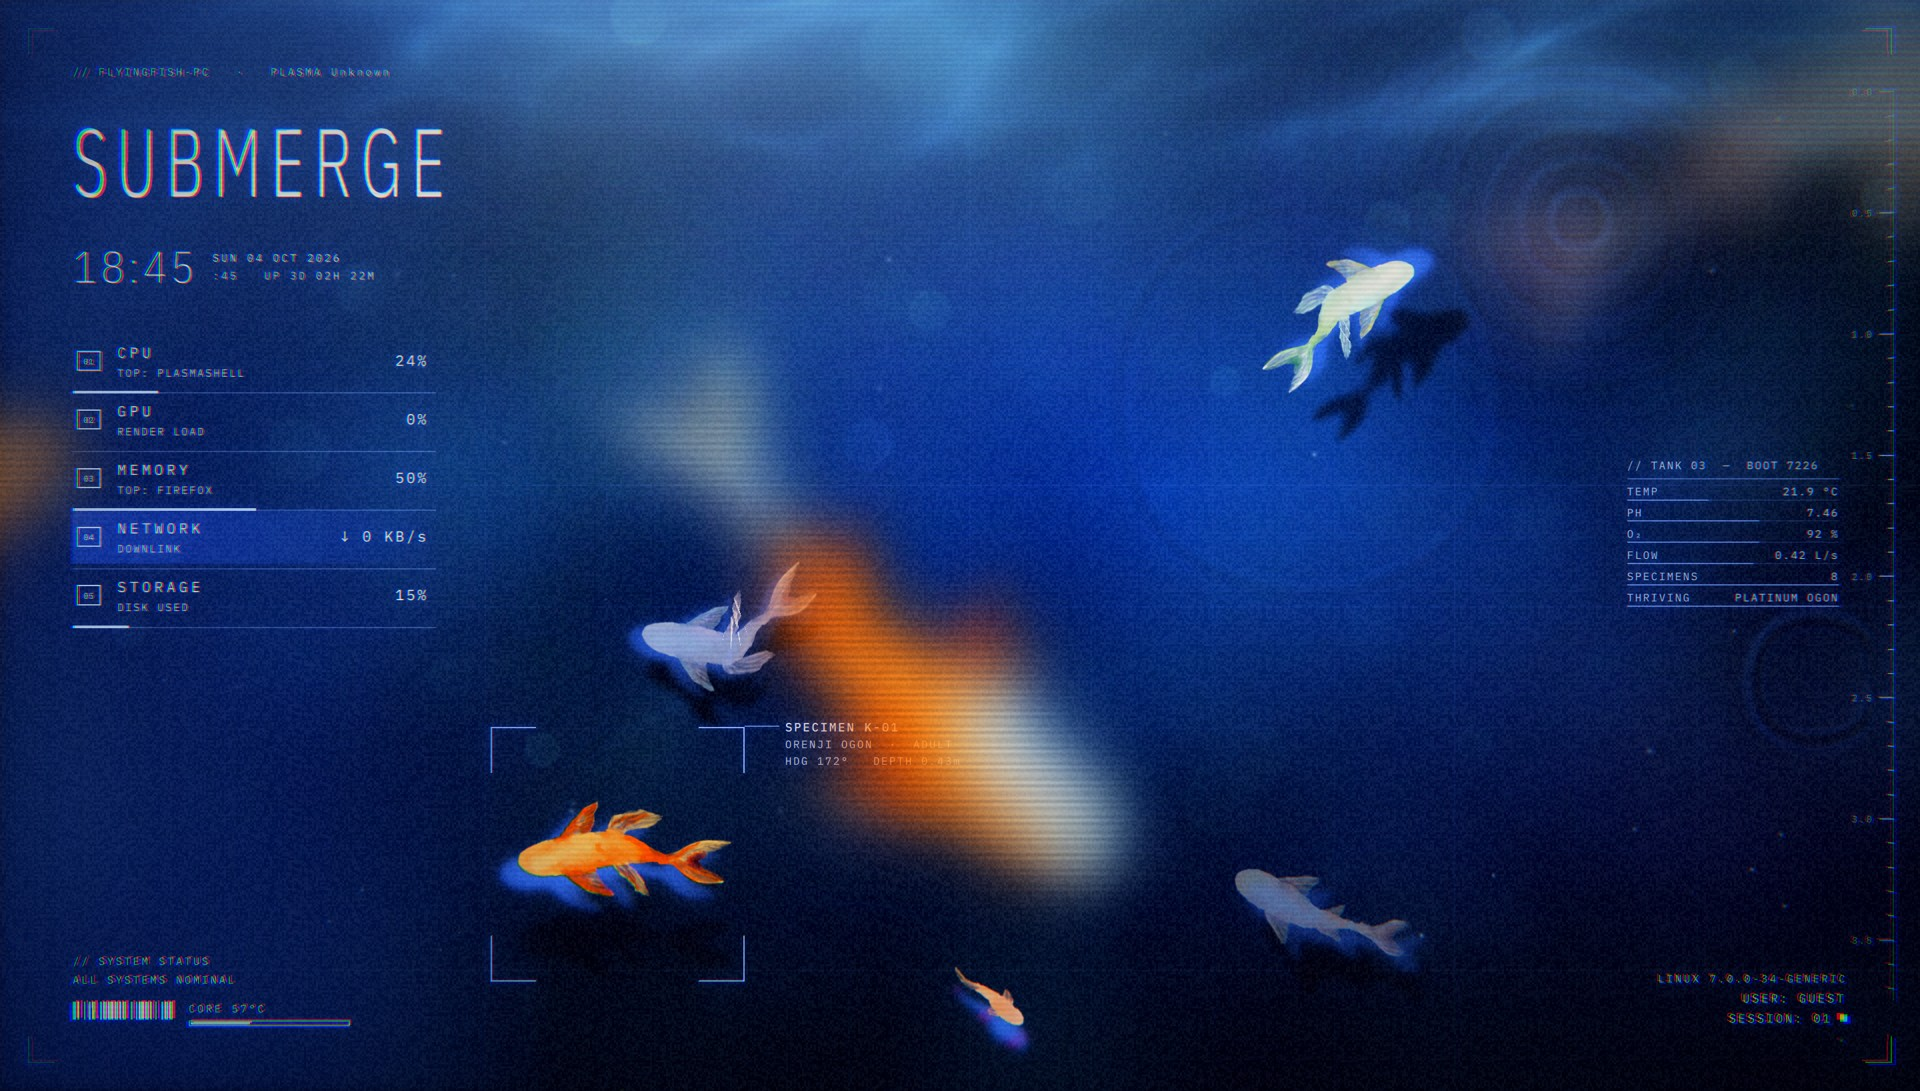
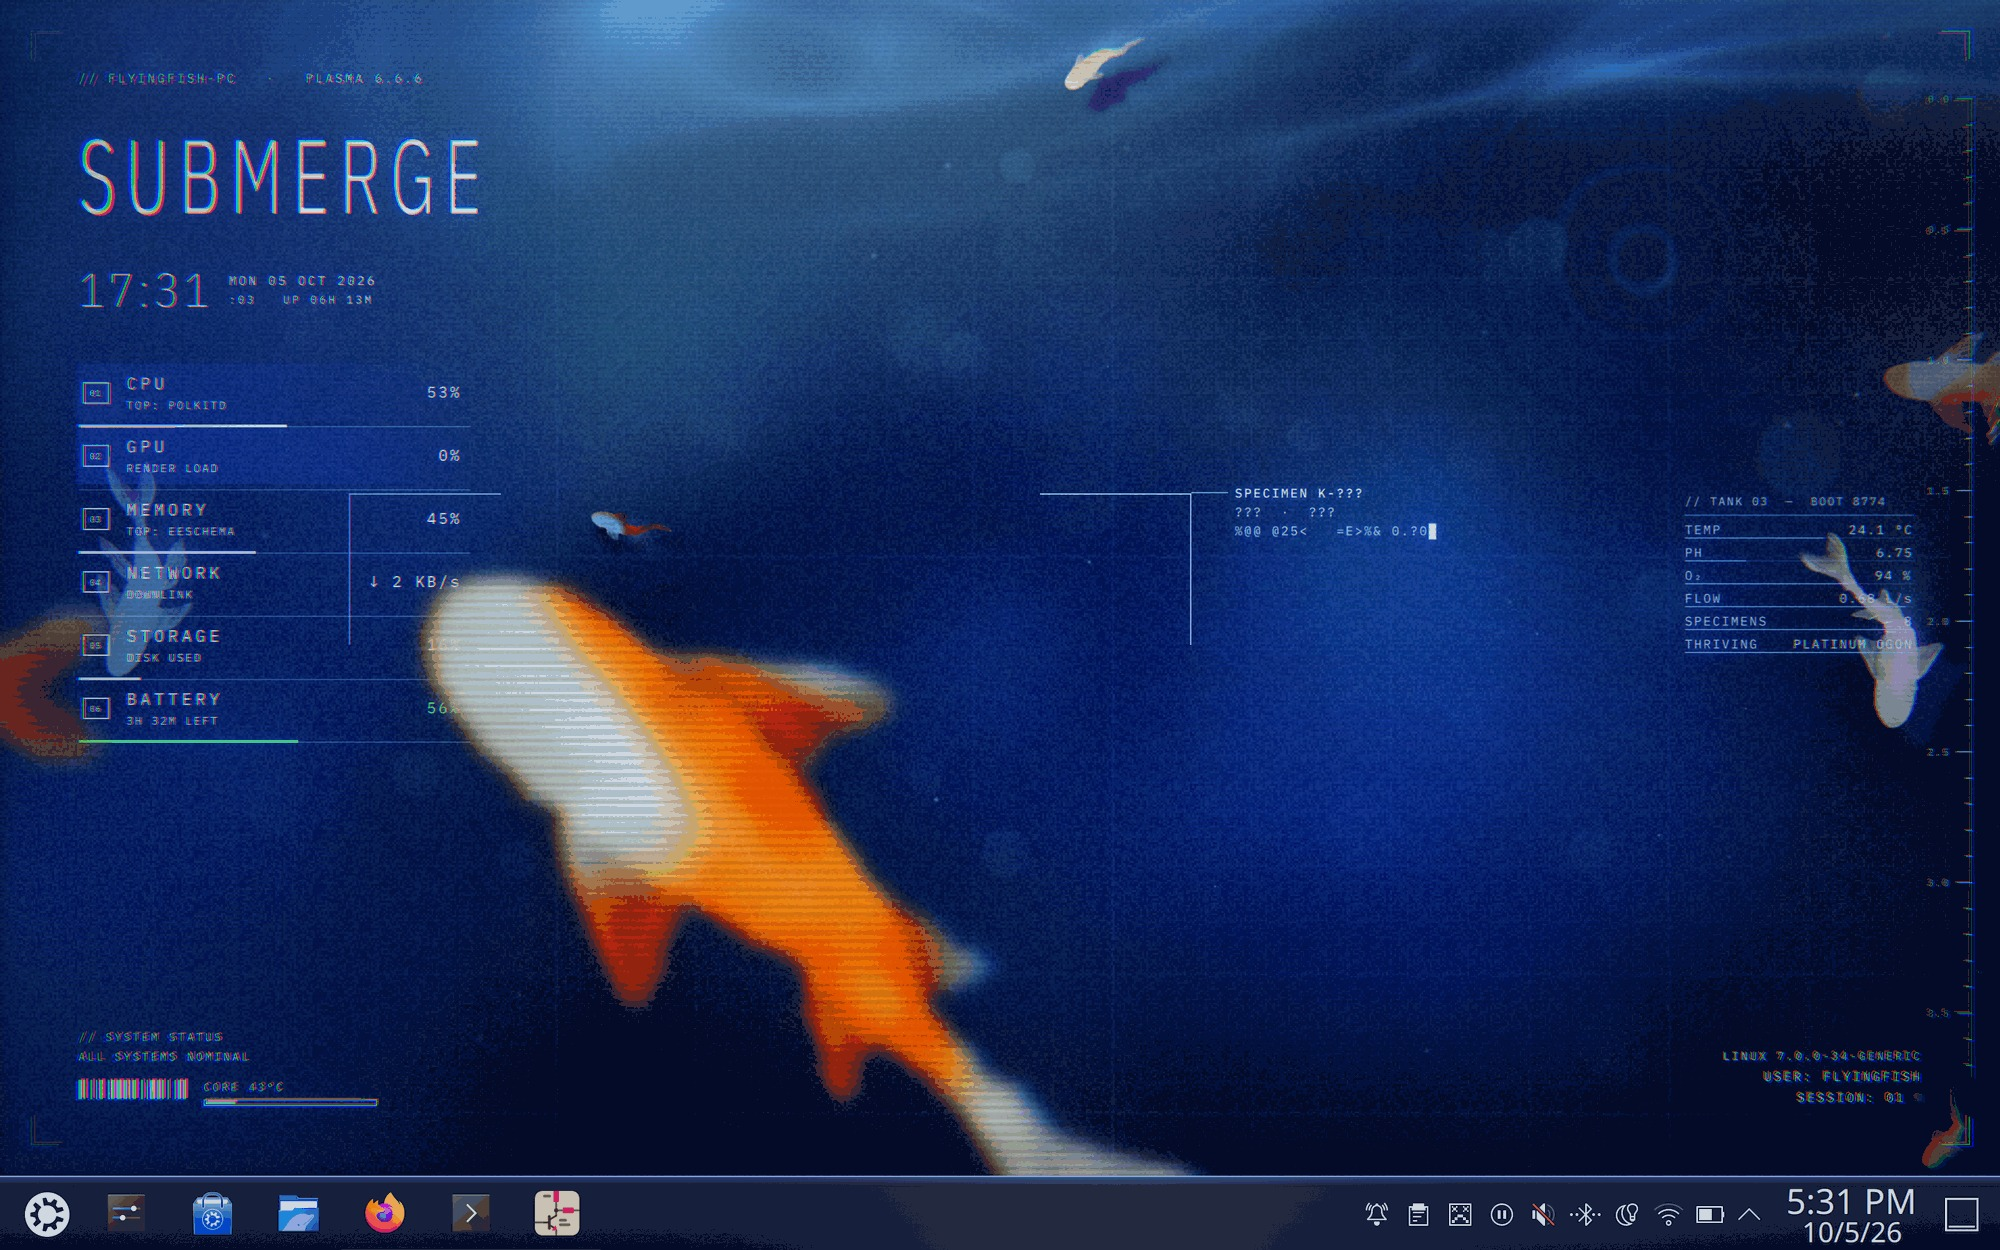
New screenshot and a plainer README intro

diff --git a/README.md b/README.md
@@ -1,31 +1,29 @@
 # Submerge
 
-A deep ocean koi fish theme for KDE Plasma 5 and 6.
+A deep ocean koi fish theme for KDE Plasma 5 and 6. The wallpaper is animated and has a HUD
+for the clock and system stats, and it comes with a matching panel style, colour scheme and
+splash screen.
 
 ![Submerge](store/screenshots/submerge-1.jpg)
 
-Demo videos: [the wallpaper](store/demo/submerge-wallpaper.mp4) (the specimen box following the
-cursor) and [the global theme](store/demo/submerge-global-theme.mp4) (panel, launcher, colour
-scheme and splash screen).
+Videos: [the wallpaper](store/demo/submerge-wallpaper.mp4) and [the whole theme](store/demo/submerge-global-theme.mp4).
 
-- **Live wallpaper**: koi that swim in bursts and glides and bend into their turns, real
-  ripples from a small water simulation, caustic light along the top, and two or three big
-  blurry glitching koi drifting past the glass.
-- **HUD**: big clock, live CPU / GPU / memory / network / storage readouts (with the app using
-  the most CPU and memory), and a system status line.
-- **Tank monitor**: one specimen box that locks onto the fish nearest your cursor, a depth
-  ruler, and tank conditions that are rerolled every boot. Warm water brings out the orange
-  varieties, acidic water the teal ones, alkaline water the violet ones, low oxygen more juveniles.
-- **Plasma style** for the panel and task manager, a **colour scheme**, and a **splash screen**.
+## What's in it
+
+- Koi that swim in short bursts and glides. The ripples come from a small water sim, so drips
+  and fish coming up to the surface leave rings.
+- A HUD with the time, CPU, GPU, memory, network, disk and battery (with time left), plus
+  which app is using the most CPU and memory.
+- Hover over a fish to put the specimen box on it. It shows the variety, heading and depth.
+- Tank temperature, pH and oxygen get rerolled every boot and change which koi show up.
+- It's easy on battery. It runs at 20 fps, drops to 10 while you're in a window, stops when a
+  maximized window covers it, and holds still on battery while you're using a window.
 
 ## Install
 
 From the KDE Store: [global theme](https://store.kde.org/p/2377260/),
 [wallpaper](https://store.kde.org/p/2377252/), [panel style](https://store.kde.org/p/2377258/),
-[colour scheme](https://store.kde.org/p/2377259/). Or the all-in-one download:
-
-
-Grab `submerge-1.6.tar.gz` from [Releases](../../releases), then:
+[colour scheme](https://store.kde.org/p/2377259/). Or grab `submerge-1.6.tar.gz` from [Releases](../../releases), then:
 
 ```sh
 tar xzf submerge-1.6.tar.gz
